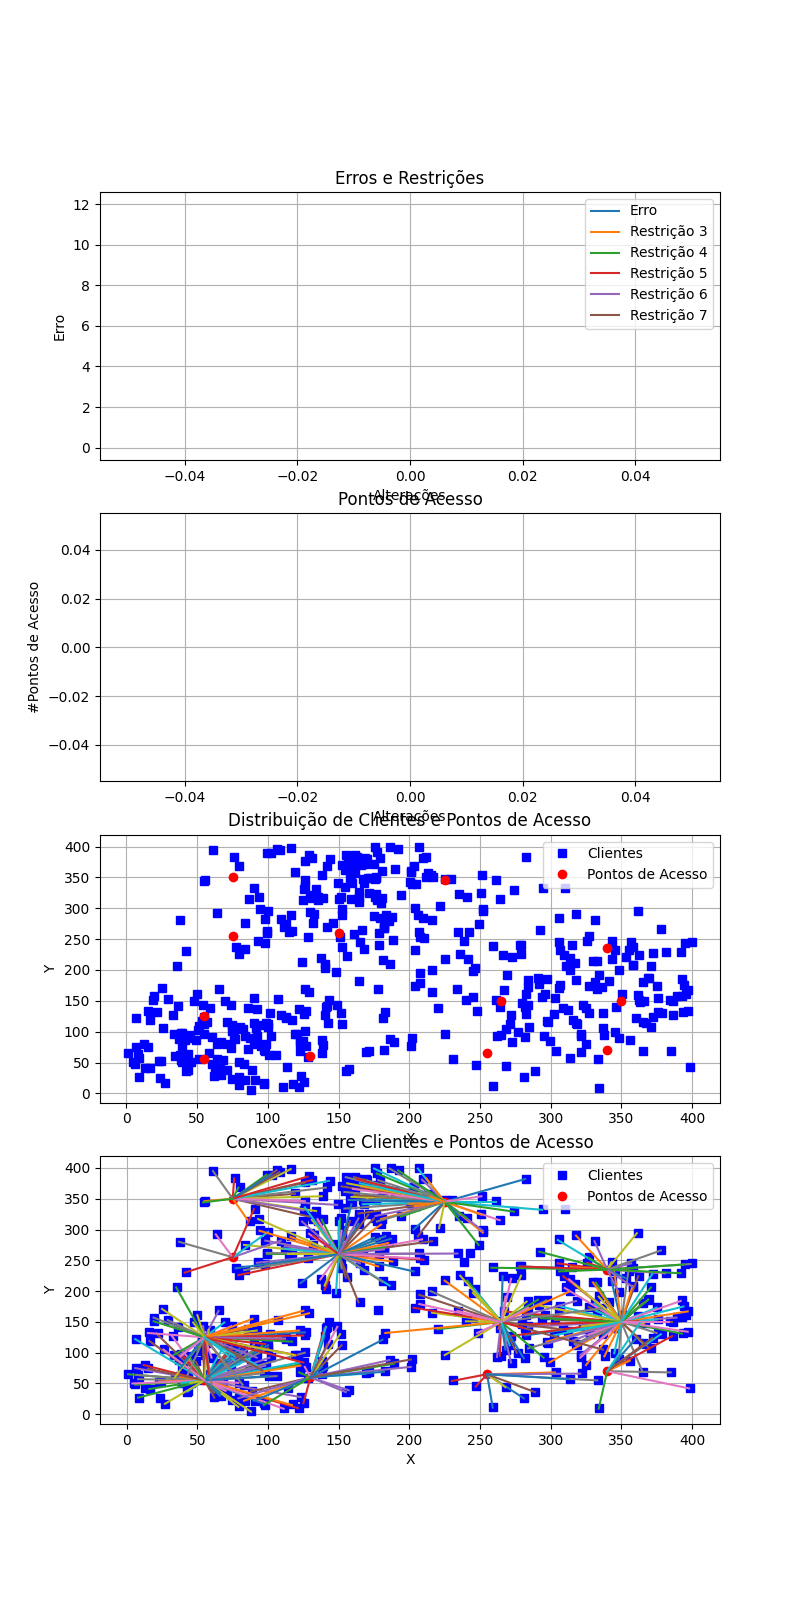
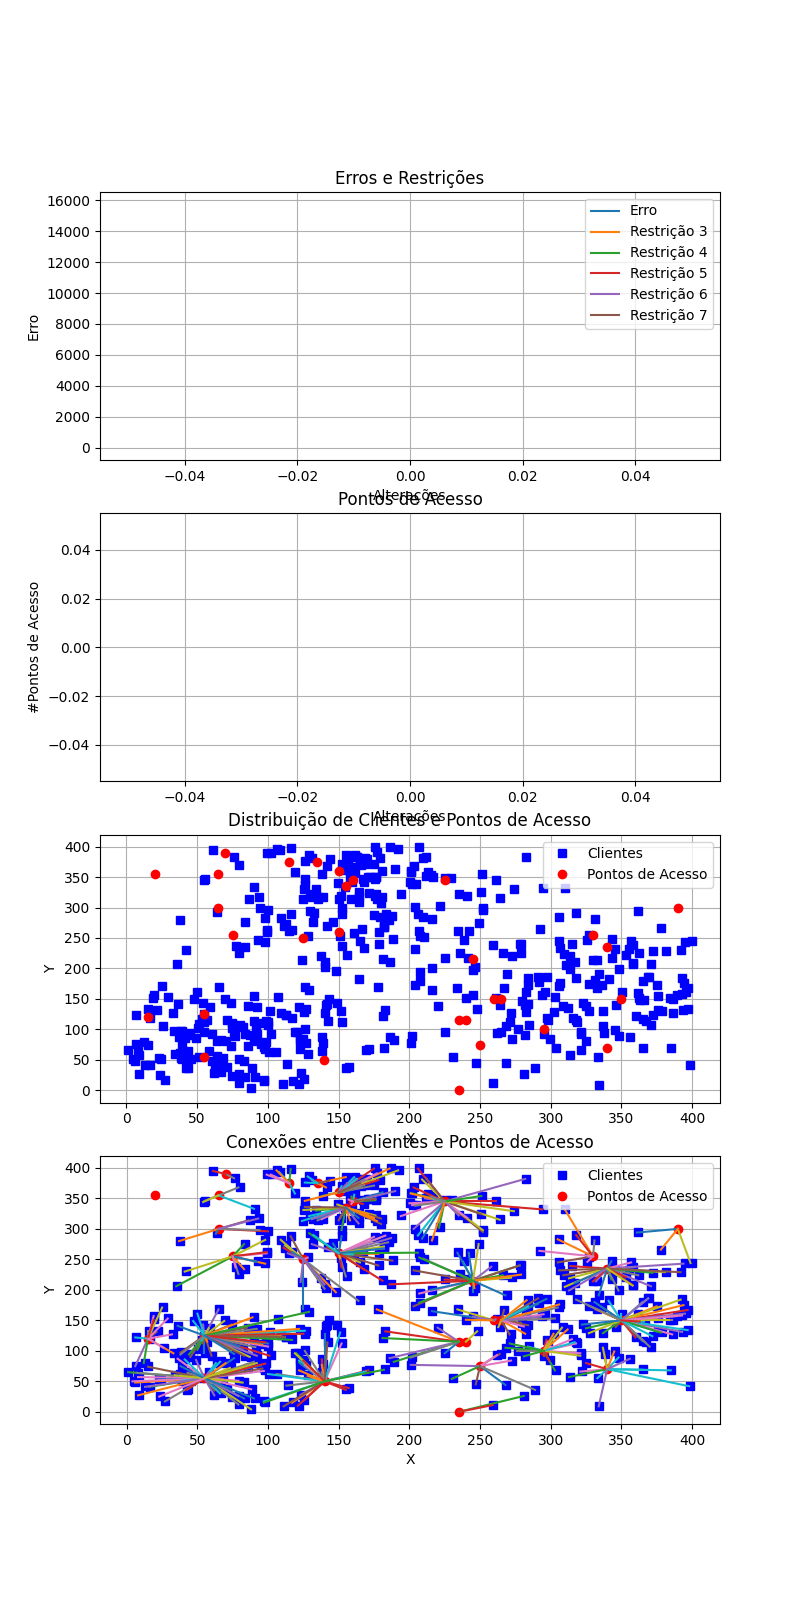
Melhorias executadas. k5 ainda não está perfeita, mas eventualmente funciona bem

diff --git a/entregas/2 entrega/mop_solution/basicvns.py b/entregas/2 entrega/mop_solution/basicvns.py
@@ -61,8 +61,10 @@ def shake(dados, k):
     # switch = {1: k1, 2: k6, 3: k3, 4: k5 }
     # Recomendação para redução de distancia
     # switch = {1: k5, 2: k7, 3: k3, 4: k4 }
+    #Recomendação para ambas
+    # switch = {1: k1, 2: k2, 3: k3, 4: k4 }
 
-    switch = {1: k5, 2: k7, 3: k3, 4: k4 }
+    switch = {1: k1, 2: k2, 3: k5, 4: k4 }
 
     return switch[k](dados)
 
@@ -128,6 +130,7 @@ def best_change(dados, f):
 
 #MAIN
 if __name__ == "__main__":
+    inicio = time.time()
 
     #Pega valores da chamada
     path_file = sys.argv[1]
@@ -202,6 +205,9 @@ if __name__ == "__main__":
     else:
         sol, log = basic_VNS(x, f2, k_max, max_int_vns, bool(n_plot), n_plot)
     
+    #plot solution
+    plot_infos(sol, log, dir_='output/vns/info/')
+    
     # print solution
     print('-------------------------- SOLUCAO OTIMA ENCONTRADA------------------------------')
     print('[Resultado]:')
@@ -214,7 +220,16 @@ if __name__ == "__main__":
     print('Restricao de numero maximo de PAs disponiveis: {}'.format(log[4][-1]))
     print('Restricao de distancia do usuario ao PA: {}'.format(log[5][-1]/100))
     print('(Para a restricao acima, qualquer valor maior que zero se refere a distancia maxima entre usuario e area de acao do PA)')
+
+    fim = time.time()
+    tempo_total_segundos = fim - inicio
+
+    # Converter para horas, minutos e segundos
+    horas = int(tempo_total_segundos // 3600)
+    minutos = int((tempo_total_segundos % 3600) // 60)
+    segundos = int(tempo_total_segundos % 60)
+
+    # Formatando a saída
+    print(f"Tempo de execução: {horas} horas, {minutos} minutos e {segundos} segundos")
     print('\n\n')
-    
-    #plot solution
-    plot_infos(sol, log, dir_='output/vns/info/')
+

diff --git a/entregas/2 entrega/mop_solution/estrutura_vizinhanca.py b/entregas/2 entrega/mop_solution/estrutura_vizinhanca.py
@@ -212,7 +212,7 @@ def k5(dados, log = None):
     dados['cliente_por_PA'] = np.hstack((dados['cliente_por_PA'], coluna_zeros))
 
     #Adiciona um novo PA para a vizinhança do PA removido no fim do array
-    PA_na_vizinhanca = deslocar_coordenada(backup_PA)
+    PA_na_vizinhanca = deslocar_coordenada(backup_PA, PAs_ativos)
     PAs_ativos = np.append(PAs_ativos, [PA_na_vizinhanca], axis=0)
 
     coluna_PA_novo = dados['cliente_por_PA'][:, len(PAs_ativos) - 1]
@@ -434,13 +434,24 @@ def priorizar_PA(coord_PAs_idxados, idx_PA):
     
     return matriz_ordenada
 
-def deslocar_coordenada(coordenada):
+def deslocar_coordenada(coordenada, PAs_ativos, max_tentativas=100):
     deslocamentos = np.array([-10, -5, 5, 10])
-    deslocamento_x = np.random.choice(deslocamentos)
-    deslocamento_y = np.random.choice(deslocamentos)
-    nova_coordenada = coordenada + np.array([deslocamento_x, deslocamento_y])
+    tentativas = 0
     
-    return nova_coordenada
+    while tentativas < max_tentativas:
+        deslocamento_x = np.random.choice(deslocamentos)
+        deslocamento_y = np.random.choice(deslocamentos)
+        
+        # Calcular a nova coordenada
+        nova_coordenada = coordenada + np.array([deslocamento_x, deslocamento_y])
+        
+        # Verificar se nova_coordenada já existe em PAs_ativos
+        if not any((nova_coordenada == PA).all() for PA in PAs_ativos):
+            # Se não existir, retornar a coordenada ajustada dentro dos limites
+            nova_coordenada = np.maximum(0, np.minimum(nova_coordenada, 400))
+            return nova_coordenada
+        
+        tentativas += 1
 
 def coordenada_media(c1, c2):
     # Calcular a coordenada do meio
